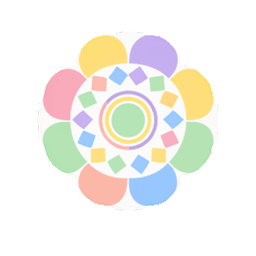
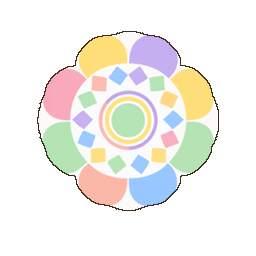
feat(beads): 走马灯 boss 烘焙图补 1px 剪影描边 (WXG-T-954)
- 两张 ui_arc_* 烘焙图沿 alpha 最外圈补 shadowInk，P 模式与 alpha 包围盒不变
- Cocos trim 37/31/182/180 继续有效；design + cocos 两副本同 md5；文件反降
- 关闭 T-926 的「待 art 重出」登记；verify 23/23

diff --git a/games/beads/cocos/assets/scripts/game/view/bead-outline.ts b/games/beads/cocos/assets/scripts/game/view/bead-outline.ts
@@ -17,7 +17,8 @@
  *    ⛔ 不再用「整颗边界珠外扩 W 的实心圆角方块」——填色盖在珠面上会把一圈珠子涂黑；
  *  - 同色一次性并集填充（不透明重叠，不叠 α）；
  *  - 适用范围：详情橱窗 / 选关缩略 / **对局盘面**（T-927 新增；盘面与缩略同一套形状，
- *    只把占用判定从 `pattern` 换成快照格 `void`）；首页走马灯例外（烘焙作品图，待 art 重出）；
+ *    只把占用判定从 `pattern` 换成快照格 `void`）；首页走马灯 = 烘焙作品图，描边随图烘
+ *    （`[WXG-T-954]` 已补 1px `shadowInk` 剪影，见 `menu-showcase-mount-spec.md §10`）；
  *  - 形状按几何缓存 ⇒ 逐帧零重建；盘面缓存用数值键（不做字符串拼接 ⇒ 热路径零分配）。
  */
 

diff --git a/games/beads/src/view/bead-outline.ts b/games/beads/src/view/bead-outline.ts
@@ -17,7 +17,8 @@
  *    ⛔ 不再用「整颗边界珠外扩 W 的实心圆角方块」——填色盖在珠面上会把一圈珠子涂黑；
  *  - 同色一次性并集填充（不透明重叠，不叠 α）；
  *  - 适用范围：详情橱窗 / 选关缩略 / **对局盘面**（T-927 新增；盘面与缩略同一套形状，
- *    只把占用判定从 `pattern` 换成快照格 `void`）；首页走马灯例外（烘焙作品图，待 art 重出）；
+ *    只把占用判定从 `pattern` 换成快照格 `void`）；首页走马灯 = 烘焙作品图，描边随图烘
+ *    （`[WXG-T-954]` 已补 1px `shadowInk` 剪影，见 `menu-showcase-mount-spec.md §10`）；
  *  - 形状按几何缓存 ⇒ 逐帧零重建；盘面缓存用数值键（不做字符串拼接 ⇒ 热路径零分配）。
  */
 

diff --git a/production/TASKS.md b/production/TASKS.md
@@ -2,12 +2,13 @@
 
 > **格式（WXG-T-064 起）：标题制 + 详情分片。** 本表**只留标题**（名称列 ≤ 60 字符，由 `pnpm run check:tasks` 机械强制）；任务正文在 `production/TASKS-DETAIL.md` 的 `## WXG-T-0NN` 小节。**读取协议**：领号/看状态只读本表（≈ 2.2k tok）；要某任务详情时，从 `ctx/index.json` 取该小节的 `startLine`/`endLine`，`read_file(path, offset, limit)` **只读那一节**（中位 ≈ 290 tok），**不要整读详情文件**。归档时**行与小节成对搬走**。
 > 单号递增不回收。任何会话（WorkBuddy/Cursor/Qoder/CodeBuddy）开工前**先读本文件领号**，完成后回填状态——根治跨 IDE 撞号（教训：2026-09-12 CodeBuddy 独立会话撞用 T-013/T-014）。
-> **领号（机械校准锚，供 `pnpm run tasks:archive` 校准用）**：当前已分配至 **WXG-T-953**，下一可用号 **WXG-T-954**（953 = 本会话（Trae CN）主菜单橱窗装裱层视觉规格 M1–M4（豆面本体 + 陈列装饰；独立规格卡 `menu-showcase-mount-spec.md`）；📝 提案）（952 = 本会话（Trae CN）选关缩略改走 flat 纯色腿（彻底去掉豆面/tint，色板基础色方块；更替 T-951/T-950/T-621 缩略腿）；✅ 完成）（951 = 本会话（Trae CN）缩略珠面恢复色板基础颜色并关闭 tint 叠加（更替 T-950 / T-910 缩略腿；已被 952 更替）；✅ 完成）（950 = 本会话（Trae CN）修复选关缩略超大盘回退方块珠面颜色与详情页不一致（`THUMB_FLAT_FACE_MIX 0.15`，方案 1；已被 951 更替）；✅ 完成）（949 = 本会话（Trae CN）过关结算面板按 Figma `过关结算 269:44` 重排：整张木牌 545×585 + 金星 96×99 + 双钮 279×106/192×101，4 枚资产入库并接 harness；✅ 完成）（948 = 本会话（Trae CN）从 Figma 重新下载设置面板 cell 背景（节点 256:61，1038×294 RGBA，入 final 未接线）；✅ 完成）（947 = 本会话（Trae CN）过关面板收口：静态卡定稿 + 死快照字段/旧注释清理 + sprint 死分支 + 星形点列预分配；✅ 完成）（946 = 本会话（Trae CN）结算过关面板：彩带禁飞带按现役 520×470 面板修正（护住标题木牌与星级）+ 说明行接 E2 大字号；✅ 完成）（945 = 本会话（Trae CN）结算·过关面板用时按本局实际时钟计算：修 2★/3★ 档与续时局「用时 / 再快N秒」虚高；✅ 完成）（944 = 本会话（Trae CN）容器内逐容器裁切：设置页半行 cell 可见，ADR-0037；✅ 完成）（943 = 本会话（Trae CN）设置页去皮肤行 + 提示文案收敛 + 开关/提示让位 + 投影加深 + 开关行整行不可点；✅ 完成）（942 = 本会话（Trae CN）设置页滚动空块 / 提示行位置 / 图标投影修复：半露行不画 + 松手吸附 150、提示行 115→102、图标补烘投影；✅ 完成）（938 = 本会话（Trae CN）设置弹窗按钮改选关「关闭」烘图派生的无字厚木 9-slice（`ui_btn_settings_9s@2x`，capX 70），按下叠深棕压暗；✅ 完成）（937 = 本会话（Trae CN）设置弹窗按钮改选关「关闭」同族木纹 9-slice、位图注入点下沉 `bitmap-ready` 解环；✅ 完成）（936 = 本会话（Trae CN）设置弹窗所有钮 normal 态改选关「关闭」木钮 + 右上 ✕ + 点木牌外关闭；✅ 完成）（935 = 本会话（Trae CN）设置弹窗复用关卡详情木牌 581×1044 + 11 钮两列、中间可视窗超窗可滚，删 600×820 专用底板；✅ 完成）（934 = 本会话（Trae CN）暂停面板收敛为三钮：继续 / 重玩本关 / 回主菜单，10 项全局设置退出暂停面板归菜单设置弹窗，幽灵符号补入菜单 11 钮；✅ 完成）（933 = 本会话（Trae CN）珠面描边圆角半径 ≡ 线宽：`OUTLINE_BASE_RADIUS = OUTLINE_BASE_WIDTH` 构造恒等，1:1 = W4/R4）（932 = 本会话（Trae CN）珠面描边加粗：1:1 基准 W 3→4、R 9→12，防珠体边角从描边下漏出）（931 = 本会话（Trae CN）盘面线宽去 `Math.max` 下限：`boardOutlineWidth` 别名 `thumbOutlineWidth`，与缩略同一等比通道）（930 = 本会话（Trae CN）珠面描边改纯比例缩放：1:1（`BEAD_PITCH=32`）锚定 W=3 / R=9，其余尺寸 × `pitch/32` 等比、去钳位去取整，盘面捏合时同步缩放）（929 = 本会话（Trae CN）珠面描边改「骑线带」：修 T-928 实心并集把一圈边界珠涂黑，改逐边界珠只画露空边 + 凸角 1/4 环带，珠面零覆盖、带连续）（928 = 本会话（Trae CN）珠面描边改**盖在珠面上面**：缩略 `drawBeadFace` 移末笔、盘面 `drawBoardOutline` 移到格循环后，条数零变仅 sha 变）（927 = 本会话（Trae CN）描边收窄 + 圆角放大 + 对局盘面启用：`W` 0.18→0.10（钳 1–4）、`R` 0.22→0.30（钳 2–9），盘面与缩略同形状「快照 `void` 占位」、`drawGrid` 前绘制、数值键缓存；封箱两帧与五态金样本各 +46 polygon）（926 = 本会话（Trae CN）珠面描边改判：shadowInk 黑贴边圆角、全展示启用，走马灯待 art 出图）（925 = 本会话（Trae CN）详情橱窗珠面贴纸轮廓：panel 白描边 + 凹角折角 R 圆角，仅详情启用）（924 = 本会话（Trae CN）详情橱窗珠面占比放大：占位 240→360×340，底锚与橱窗轴不变）（923 = 本会话（Trae CN）通关画面范围分档：本章 / 全部通关标题与行范围，行标签全局关号）（922 = 本会话（Trae CN）门票→章 2 串联验收：14 断言全过，纯验证零代码）（921 = 本会话（Trae CN）视图删章首门票豁免腿：锁判据单源 `maxUnlockedLevel`，`arcTicketOpen` 不再被视图消费）（920 = 本会话（Trae CN）「解锁」判据收拢 `_unlockedFrontier`：门票成立 ⇒ 章首必解锁，三态/高亮/闸门同源）（919 = 本会话（Trae CN）首页锁态章不可点进选关页：入口闸门 `_openLevelsFromMenu` 增 `arcTicketOpen` 拦，R14 改判）（918 = 本会话（Trae CN）关卡详情图案落托盘 + 居中：底锚实际内容行、水平取橱窗轴）（917 = 本会话（Trae CN）未开放大关锁形占位尺寸/锚点 art 定版：scale 0.45、玻璃中心、动效静止）（916 = 本会话（Trae CN）未开放大关橱窗 = 锁图占位：不画 boss 图，磨砂/灰度腿退役）（915 = 本会话（Trae CN）选关页编号牌口径 = 全局关号：`level.id` 替代章内格位，越界空槽不印数字）（914 = 本会话（Trae CN）木牌第二行状态词：无在推的关时「已通关 / 未开启」）（913 = 本会话（Trae CN）主界面走马灯陈列关 = 推到的 0 星关，章名不丢）（912 = 本会话（Trae CN）选关高亮改口径：解锁范围内第一个 0 星关，全通回落前沿）（911 = 本会话（Trae CN）选关高亮改指进度前沿：currentLevelIndex = 最高解锁关 − 1）（910 = 本会话（Qoder）缩略珠面与盘面同臂同参：maskGauge/hideHole/底块 tile opts 随豆径档透传，更替 T-620 恒矢量臂接线；领号认工作树全局最大号 K-046）（623 = 本会话（Trae CN）缩略构图补齐：目标色底块 + x 锁格 + 空格口径）（622 = 本会话（Trae CN）缩略大盘回退判据统一：块边→珠体边长）（621 = 本会话（Trae CN）缩略珠面跟随当前应用珠体风格 `beadStyle`）（620 = 本会话（Trae CN）选关/详情珠面接入盘面同款 `drawFilledBead`（facet-4））（619 = 本会话（Trae CN）关卡详情珠面切共享腿 `drawBeadFace`）（618 = 本会话（Qoder）并发遗留清账批 17 件·用户批准代提·逐件归属披露）（617 = 本会话（Qoder）T-614 追闭二轮：Cocos 腿九宫格死分支修复 + 实帧取证 + Figma 回稿单 + F7⑤ 无障碍裁定）（616 = 本会话（Trae CN）选关九宫格图案槽放大 69×76→126×94 + 锁图等比居中）（615 = 本会话（Qoder）T-614 追闭三件：切图进包核验 + 位图腿 headless 实帧取证 + ux-spec 版本链/变更记录外移文档批）（614 = 本会话（Qoder）倒计时结束弹窗按 Figma 木牌稿重排 + View/ViewModel 三契约落码）（613 = 本会话（CodeBuddy）选关页缩略新增完整豆面档（盘面真实行列逐珠等比），旧固定珠数聚合档保留）（612 = 本会话（CodeBuddy）选关页外框处理 + 右上 ✕ + 两弹框背景框/✕ 绘制共用）（611 = 本会话（CodeBuddy）选关页六项修正：名字居中 / 高亮无框 / grid-brand 资源 / 锁格 grid-image / 解锁程序化图案 / 去锁徽章）（610 = 本会话（CodeBuddy）选关弹窗九宫格/关闭按钮/关卡名字控件按稿补齐批）（609 = 本会话（CodeBuddy）关卡详情橱窗面板资源从 Figma 获取并接入批）（608 = 本会话（CodeBuddy）关卡详情对话框背景重新下载导入批）（607 = 本会话（CodeBuddy）选关对话框 Figma grid-1 切图 + View/ViewModel 落码批）（606 = 选关页沿用关卡详情木牌 + 九宫格木托盘）（605 = MiniMax-H3 文生视频工作流（内网 ComfyUI））（604 = 关卡详情弹窗按 Figma 92:36 重排 + 单源规格）（603 = 关卡详情道具图标批次：熨贴片 / 抖豆筛 / 扫豆刷 + 数量标记）（602 = 本会话（CodeBuddy）走马灯翻页动画顿挫修复批）（601 = 本会话（CodeBuddy）橱窗展品底缘对齐圆台台面修复批）（**沿革已外移**：每个已分配号的批次摘要、冲突披露与 ADR 编号表 → `production/archive/TASKS-ledger-notes.md`，2026-10-28 由 WXG-T-482 原文照搬迁出；动机 = 该段占台账 39,909 tok 而 `tasks:archive` 只搬表行、对它零效力 ⇒ 台账撞 80k 门。⛔ 日常领号只认本行数值，**不要**去读那份沿革）。
+> **领号（机械校准锚，供 `pnpm run tasks:archive` 校准用）**：当前已分配至 **WXG-T-954**，下一可用号 **WXG-T-955**（954 = 本会话（Trae CN）走马灯两张 boss 烘焙图补珠面描边（1px `shadowInk` 剪影，P 模式 alpha 包围盒不变；✅ 完成））（953 = 本会话（Trae CN）主菜单橱窗装裱层视觉规格 M1–M4（豆面本体 + 陈列装饰；独立规格卡 `menu-showcase-mount-spec.md`）；✅ 完成）（952 = 本会话（Trae CN）选关缩略改走 flat 纯色腿（彻底去掉豆面/tint，色板基础色方块；更替 T-951/T-950/T-621 缩略腿）；✅ 完成）（951 = 本会话（Trae CN）缩略珠面恢复色板基础颜色并关闭 tint 叠加（更替 T-950 / T-910 缩略腿；已被 952 更替）；✅ 完成）（950 = 本会话（Trae CN）修复选关缩略超大盘回退方块珠面颜色与详情页不一致（`THUMB_FLAT_FACE_MIX 0.15`，方案 1；已被 951 更替）；✅ 完成）（949 = 本会话（Trae CN）过关结算面板按 Figma `过关结算 269:44` 重排：整张木牌 545×585 + 金星 96×99 + 双钮 279×106/192×101，4 枚资产入库并接 harness；✅ 完成）（948 = 本会话（Trae CN）从 Figma 重新下载设置面板 cell 背景（节点 256:61，1038×294 RGBA，入 final 未接线）；✅ 完成）（947 = 本会话（Trae CN）过关面板收口：静态卡定稿 + 死快照字段/旧注释清理 + sprint 死分支 + 星形点列预分配；✅ 完成）（946 = 本会话（Trae CN）结算过关面板：彩带禁飞带按现役 520×470 面板修正（护住标题木牌与星级）+ 说明行接 E2 大字号；✅ 完成）（945 = 本会话（Trae CN）结算·过关面板用时按本局实际时钟计算：修 2★/3★ 档与续时局「用时 / 再快N秒」虚高；✅ 完成）（944 = 本会话（Trae CN）容器内逐容器裁切：设置页半行 cell 可见，ADR-0037；✅ 完成）（943 = 本会话（Trae CN）设置页去皮肤行 + 提示文案收敛 + 开关/提示让位 + 投影加深 + 开关行整行不可点；✅ 完成）（942 = 本会话（Trae CN）设置页滚动空块 / 提示行位置 / 图标投影修复：半露行不画 + 松手吸附 150、提示行 115→102、图标补烘投影；✅ 完成）（938 = 本会话（Trae CN）设置弹窗按钮改选关「关闭」烘图派生的无字厚木 9-slice（`ui_btn_settings_9s@2x`，capX 70），按下叠深棕压暗；✅ 完成）（937 = 本会话（Trae CN）设置弹窗按钮改选关「关闭」同族木纹 9-slice、位图注入点下沉 `bitmap-ready` 解环；✅ 完成）（936 = 本会话（Trae CN）设置弹窗所有钮 normal 态改选关「关闭」木钮 + 右上 ✕ + 点木牌外关闭；✅ 完成）（935 = 本会话（Trae CN）设置弹窗复用关卡详情木牌 581×1044 + 11 钮两列、中间可视窗超窗可滚，删 600×820 专用底板；✅ 完成）（934 = 本会话（Trae CN）暂停面板收敛为三钮：继续 / 重玩本关 / 回主菜单，10 项全局设置退出暂停面板归菜单设置弹窗，幽灵符号补入菜单 11 钮；✅ 完成）（933 = 本会话（Trae CN）珠面描边圆角半径 ≡ 线宽：`OUTLINE_BASE_RADIUS = OUTLINE_BASE_WIDTH` 构造恒等，1:1 = W4/R4）（932 = 本会话（Trae CN）珠面描边加粗：1:1 基准 W 3→4、R 9→12，防珠体边角从描边下漏出）（931 = 本会话（Trae CN）盘面线宽去 `Math.max` 下限：`boardOutlineWidth` 别名 `thumbOutlineWidth`，与缩略同一等比通道）（930 = 本会话（Trae CN）珠面描边改纯比例缩放：1:1（`BEAD_PITCH=32`）锚定 W=3 / R=9，其余尺寸 × `pitch/32` 等比、去钳位去取整，盘面捏合时同步缩放）（929 = 本会话（Trae CN）珠面描边改「骑线带」：修 T-928 实心并集把一圈边界珠涂黑，改逐边界珠只画露空边 + 凸角 1/4 环带，珠面零覆盖、带连续）（928 = 本会话（Trae CN）珠面描边改**盖在珠面上面**：缩略 `drawBeadFace` 移末笔、盘面 `drawBoardOutline` 移到格循环后，条数零变仅 sha 变）（927 = 本会话（Trae CN）描边收窄 + 圆角放大 + 对局盘面启用：`W` 0.18→0.10（钳 1–4）、`R` 0.22→0.30（钳 2–9），盘面与缩略同形状「快照 `void` 占位」、`drawGrid` 前绘制、数值键缓存；封箱两帧与五态金样本各 +46 polygon）（926 = 本会话（Trae CN）珠面描边改判：shadowInk 黑贴边圆角、全展示启用，走马灯待 art 出图）（925 = 本会话（Trae CN）详情橱窗珠面贴纸轮廓：panel 白描边 + 凹角折角 R 圆角，仅详情启用）（924 = 本会话（Trae CN）详情橱窗珠面占比放大：占位 240→360×340，底锚与橱窗轴不变）（923 = 本会话（Trae CN）通关画面范围分档：本章 / 全部通关标题与行范围，行标签全局关号）（922 = 本会话（Trae CN）门票→章 2 串联验收：14 断言全过，纯验证零代码）（921 = 本会话（Trae CN）视图删章首门票豁免腿：锁判据单源 `maxUnlockedLevel`，`arcTicketOpen` 不再被视图消费）（920 = 本会话（Trae CN）「解锁」判据收拢 `_unlockedFrontier`：门票成立 ⇒ 章首必解锁，三态/高亮/闸门同源）（919 = 本会话（Trae CN）首页锁态章不可点进选关页：入口闸门 `_openLevelsFromMenu` 增 `arcTicketOpen` 拦，R14 改判）（918 = 本会话（Trae CN）关卡详情图案落托盘 + 居中：底锚实际内容行、水平取橱窗轴）（917 = 本会话（Trae CN）未开放大关锁形占位尺寸/锚点 art 定版：scale 0.45、玻璃中心、动效静止）（916 = 本会话（Trae CN）未开放大关橱窗 = 锁图占位：不画 boss 图，磨砂/灰度腿退役）（915 = 本会话（Trae CN）选关页编号牌口径 = 全局关号：`level.id` 替代章内格位，越界空槽不印数字）（914 = 本会话（Trae CN）木牌第二行状态词：无在推的关时「已通关 / 未开启」）（913 = 本会话（Trae CN）主界面走马灯陈列关 = 推到的 0 星关，章名不丢）（912 = 本会话（Trae CN）选关高亮改口径：解锁范围内第一个 0 星关，全通回落前沿）（911 = 本会话（Trae CN）选关高亮改指进度前沿：currentLevelIndex = 最高解锁关 − 1）（910 = 本会话（Qoder）缩略珠面与盘面同臂同参：maskGauge/hideHole/底块 tile opts 随豆径档透传，更替 T-620 恒矢量臂接线；领号认工作树全局最大号 K-046）（623 = 本会话（Trae CN）缩略构图补齐：目标色底块 + x 锁格 + 空格口径）（622 = 本会话（Trae CN）缩略大盘回退判据统一：块边→珠体边长）（621 = 本会话（Trae CN）缩略珠面跟随当前应用珠体风格 `beadStyle`）（620 = 本会话（Trae CN）选关/详情珠面接入盘面同款 `drawFilledBead`（facet-4））（619 = 本会话（Trae CN）关卡详情珠面切共享腿 `drawBeadFace`）（618 = 本会话（Qoder）并发遗留清账批 17 件·用户批准代提·逐件归属披露）（617 = 本会话（Qoder）T-614 追闭二轮：Cocos 腿九宫格死分支修复 + 实帧取证 + Figma 回稿单 + F7⑤ 无障碍裁定）（616 = 本会话（Trae CN）选关九宫格图案槽放大 69×76→126×94 + 锁图等比居中）（615 = 本会话（Qoder）T-614 追闭三件：切图进包核验 + 位图腿 headless 实帧取证 + ux-spec 版本链/变更记录外移文档批）（614 = 本会话（Qoder）倒计时结束弹窗按 Figma 木牌稿重排 + View/ViewModel 三契约落码）（613 = 本会话（CodeBuddy）选关页缩略新增完整豆面档（盘面真实行列逐珠等比），旧固定珠数聚合档保留）（612 = 本会话（CodeBuddy）选关页外框处理 + 右上 ✕ + 两弹框背景框/✕ 绘制共用）（611 = 本会话（CodeBuddy）选关页六项修正：名字居中 / 高亮无框 / grid-brand 资源 / 锁格 grid-image / 解锁程序化图案 / 去锁徽章）（610 = 本会话（CodeBuddy）选关弹窗九宫格/关闭按钮/关卡名字控件按稿补齐批）（609 = 本会话（CodeBuddy）关卡详情橱窗面板资源从 Figma 获取并接入批）（608 = 本会话（CodeBuddy）关卡详情对话框背景重新下载导入批）（607 = 本会话（CodeBuddy）选关对话框 Figma grid-1 切图 + View/ViewModel 落码批）（606 = 选关页沿用关卡详情木牌 + 九宫格木托盘）（605 = MiniMax-H3 文生视频工作流（内网 ComfyUI））（604 = 关卡详情弹窗按 Figma 92:36 重排 + 单源规格）（603 = 关卡详情道具图标批次：熨贴片 / 抖豆筛 / 扫豆刷 + 数量标记）（602 = 本会话（CodeBuddy）走马灯翻页动画顿挫修复批）（601 = 本会话（CodeBuddy）橱窗展品底缘对齐圆台台面修复批）（**沿革已外移**：每个已分配号的批次摘要、冲突披露与 ADR 编号表 → `production/archive/TASKS-ledger-notes.md`，2026-10-28 由 WXG-T-482 原文照搬迁出；动机 = 该段占台账 39,909 tok 而 `tasks:archive` 只搬表行、对它零效力 ⇒ 台账撞 80k 门。⛔ 日常领号只认本行数值，**不要**去读那份沿革）。
 > 勘误（2026-09-13）：本注此前长期停在「已分配至 T-032」而表内已排到 T-035，曾致撞号（教训见 memory 记录）；WXG-T-040 归档落地后改为——**领号认本注（下一可用号），本注由 `tasks:archive` 校准**为「主表 ∪ 归档全局最大号 + 1」（归档会把老行移出主表，只看主表最大号必重号）；手工领号后请顺手核对本注（可运行 `pnpm run tasks:archive` 校准，0 行时不落盘）。
 > **用过号未自登主表清单**（K-137 只披露不代填）：222 / 257 / 280·281 / 282 / 283 / 285 / 286·287 / 289 （291 已由 WXG-T-292 代收口自登；203–207 属区间披露）——逐条正文与补账口径见 `production/archive/TASKS-ledger-notes.md` §A 末段。⛔ 仍不代填，待各会话自登。
 
 | Task ID | 名称 | 负责 | 状态 | 产出 |
 |---|---|---|---|---|
+| WXG-T-954 | 美术·走马灯两张 boss 烘焙图补珠面描边 | 主理人(Trae CN)·beads 美术轨 | ✅ **完成（2026-11-16）**（用户选「2 = 给走马灯两张 boss 烘焙图补珠面描边」）。`l9-boss-mandala-256` / `photo32-smoke-boss-256` 沿 alpha 剪影最外圈补 **1px `shadowInk` `#3D2E1E`** 实线；P 模式保留、透明度索引 96 不变、**alpha 包围盒逐像素不变**（Cocos trim 37/31/182/180 仍有效）；design + cocos 两副本同 md5；文件 −256 B / −280 B（零包体增量）。关闭 T-926 登记的「走马灯烘焙图待 art 重出」 | 见详情 · 资产 4 件（2 原图 + 2 副本）；harness 实帧两态；零金样本重抓（Node 金样本走程序化兜底腿，命令流未变） |
 | WXG-T-953 | 设计·主菜单橱窗装裱层视觉规格（M1–M4）+ 落码 | 主理人(Trae CN)·beads 美术轨 | ✅ **完成（2026-11-15）**（用户令「按这个方案生成装裱层的视觉规格」并选「1 = 落码」）。规格卡 `menu-showcase-mount-spec.md` + 实装 M1 背衬暗角 / M2 底缘接触影 / M3 压边内框 / M4 上缘受光线（M5 默认关）。几何口径订正 = 名义 `MENU_V2.art` 325×314 不是可见范围（两腿实际绘制 ≈ `avail` 374 见方）⇒ M1/M2/M3 按实际包围盒；M3 上缘夹到玻璃顶。零新 hex / 0 KB / 菜单帧 +18 rect（实测） | 见详情 · 代码 `tuning/menu.ts` + `view/meta-menu.ts`；规格 1 件；金样本五态 +18 rect 重抓；harness 四态取证 · kb:sync 沉淀统计 新增0/修改0/激活0/归档0 |
 | WXG-T-952 | 修复·选关缩略改走 flat 纯色腿（彻底去掉豆面 / tint） | 主理人(Trae CN)·beads 视图轨 | ✅ **完成（2026-11-15）**（用户令「现在缩略图的还是有豆面 tint 效果」）。`drawBeadFace` 新增 `flat` 形参（缺省 false）；选关格解锁/锁定两处传 `flat=true` ⇒ 不调 `drawFilledBead`，逐格只画 B0 目标色底 + 色板基础色方块，零珠面/零 tint/零孔；详情橱窗与走马灯保持珠面。T-621 改为「缩略与 beadStyle 解耦」，墙 oracle 改按方块边 | 见详情 · kb:sync 沉淀统计 新增0/修改0/激活0/归档0 |
 | WXG-T-951 | 修复·缩略珠面恢复基础色并关闭 tint 叠加 | 主理人(Trae CN)·beads 视图轨 | ✅ **完成（2026-11-15）**，**已被 WXG-T-952 更替**（缩略彻底改 flat 纯色腿）。原修复 = 回退 T-950 派生色、`drawBeadFace` 不写 `maskGauge` ⇒ 缩略走矢量臂 | 见详情 · kb:sync 沉淀统计 新增0/修改0/激活0/归档0 |
@@ -61,7 +62,7 @@
 | WXG-T-929 | UX·珠面描边改「骑线带」形状（修涂黑） | 主理人(Trae CN)·beads 工程轨 | ✅ **完成（2026-11-12 · 用户反馈「我只是让珠面描边，怎么把珠面一圈的珠子给描黑了」）**（实心并集 → 骑线带：逐边界珠只画露空边 + 凸角 1/4 环带，半宽 `W/2` 内外各半，珠面零覆盖；盘面 13×12 由 46 实心块改为 54 枚带/角，判据「单格 8 / 2×2 12 / L 形 13」，封箱 +8 与金样本重抓） | 见详情 |
 | WXG-T-928 | UX·珠面描边改盖在珠面之上 | 主理人(Trae CN)·beads 工程轨 | ✅ **完成（2026-11-12 · 用户令「珠面描边要盖在珠面上面」）**（只改帖序：`drawBeadFace` 轮廓移到 pass 2 之后、`drawGrid` 轮廓移到格循环之后 ⇒ 线条压住边界珠外缘 W；形状 / 条数零变，封箱第二十三次复评 0/0 + 金样本 sha 重抓） | 见详情 |
 | WXG-T-927 | UX·珠面描边收窄 + 圆角放大 + 对局盘面启用 | 主理人(Trae CN)·beads 工程轨 | ✅ **完成（2026-11-12 · 用户令「珠面的描边窄一点，圆角半径再大一点；游戏中也需要这个描边」）**（线宽 `W=clamp(round(pitch×0.10),1,4)`、折角 `R=clamp(round(pitch×0.30),2,9)`；新增 `drawBoardOutline` ⇒ 盘面与缩略 / 详情同形状，占位取快照 `cell.void`、锁定格取 `cell.state`，在 `drawGrid` 格循环前绘制；缓存数值键比较、逐帧零分配；判据 `thumb-outline` 7 例，封箱两帧与五态金样本重抓） | 见详情 |
-| WXG-T-926 | UX·珠面描边改判（黑贴边·全展示·等比） | 主理人(Trae CN)·beads 工程轨 + art | ✅ **完成（2026-11-12 · 用户反馈「白色不协调，黑/金、线条连续紧贴珠面、各种展示都加、等比缩放」）**（art 二裁 `palette.shadowInk` 暖可可黑单层实线；实现改「每颗边界珠外扩 W 圆角方块」并集 ⇒ 紧贴无缝；`drawBeadFace` 内建描边 ⇒ 详情 + 选关生效；**首页走马灯 = 烘焙作品图，需 art 重出图（已登记）**；判据 6 例，实帧已核） | 见详情 |
+| WXG-T-926 | UX·珠面描边改判（黑贴边·全展示·等比） | 主理人(Trae CN)·beads 工程轨 + art | ✅ **完成（2026-11-12 · 用户反馈「白色不协调，黑/金、线条连续紧贴珠面、各种展示都加、等比缩放」）**（art 二裁 `palette.shadowInk` 暖可可黑单层实线；实现改「每颗边界珠外扩 W 圆角方块」并集 ⇒ 紧贴无缝；`drawBeadFace` 内建描边 ⇒ 详情 + 选关生效；**首页走马灯 = 烘焙作品图，需 art 重出图（已登记）**；判据 6 例，实帧已核；**走马灯烘焙图已由 WXG-T-954 补 1px 剪影描边（2026-11-16）**） | 见详情 |
 | WXG-T-925 | UX·详情橱窗珠面贴纸轮廓（白描边+折角圆角） | 主理人(Trae CN)·beads 工程轨 | ✅ **完成（2026-11-12 · 用户令「珠面需要增加一圈轮廓，轮廓折叠处需要有圆角，颜色和效果请 art 裁定」，白描边已被 T-926 改判）**（新增 `bead-outline.ts`：剪影边界环 → 凸角 W 圆盘 / 凹角 R+W↔R 圆环 / 直边矩形条，画在珠面前；art 裁 `palette.panel` 单层实线、W/R 随 pitch 钳 2–6；判据 5 例） | 见详情 |
 | WXG-T-924 | UX·详情橱窗珠面占比放大（240→360×340） | 主理人(Trae CN)·beads 工程轨 | ✅ **完成（2026-11-12 · 用户令「图案占橱窗比例太小，按照视觉合适比例调整」）**（占位从稿面猫图框 295×285/240 改取 `LEVEL_DETAIL_GEO.thumbFit` 360×340；底锚台面 805、水平橱窗轴不变；判据 4 例全绿，实帧 L4 12×12 / L7 宽盘 / L9 boss 三档已核） | 见详情 |
 | WXG-T-923 | UX·通关画面范围分档（本章 / 全部通关） | 主理人(Trae CN)·beads 工程轨 | ✅ **完成（2026-11-12 · 用户裁「按范围分档」）**（L9 ⇒「🎊 本章通关」+ 9 行；L10 ⇒「🎊 全部通关」+ 10 行；行标签用全局关号；三钮固定几何，hitTest 脱布局缓存；判据 +4，实帧 9 行 27/27★ 与 10 行 30/30★） | 见详情 |

diff --git a/memory/INDEX.md b/memory/INDEX.md
@@ -70,12 +70,12 @@
 > 摘要层覆盖 **24 篇日记 / 合计 115,979 tok**（整读本块 ≈ 数十行；整读日记 = 万级 tok ⇒ 别整读）。
 > 另有 **49 个二级详情文件 / 合计 94,498 tok**（`memory/details/`，下表「详情」列给出指针；单文件仍需按行区间读，勿整读）。
 
-### `memory/2026-10-22.md` — 398 tok｜0 节｜**蒸馏到期 2026-11-21**（剩 6 天）
+### `memory/2026-10-22.md` — 398 tok｜0 节｜**蒸馏到期 2026-11-21**（剩 5 天）
 
 | 节 | 行（含首尾） | tok | 详情 | 摘要（节首句摘取，**非**人工撰写） |
 |---|---|---|---|---|
 
-### `memory/2026-10-21.md` — 5,478 tok｜10 节｜**蒸馏到期 2026-11-20**（剩 5 天）
+### `memory/2026-10-21.md` — 5,478 tok｜10 节｜**蒸馏到期 2026-11-20**（剩 4 天）
 
 | 节 | 行（含首尾） | tok | 详情 | 摘要（节首句摘取，**非**人工撰写） |
 |---|---|---|---|---|
@@ -90,7 +90,7 @@
 | §WXG-T-333 开工：headroom 安装押后 + 走查前置侦察（Qoder） | 72–79 | 508 | — | 用户裁定：「暂时先不装 headroom，继续走查任务」⇒ uv tool install 命令已取消（零落盘，用户机器 |
 | §WXG-T-332 开工：headroom 可用形态口径订正（Qoder） | 80–88 | 525 | — | 用户纠错成立：用户指出「headroom 好像只能 MCP 用法，直接代理在 Qoder 里好像不能用」。判 对 —— |
 
-### `memory/2026-10-20.md` — 1,785 tok｜4 节｜**蒸馏到期 2026-11-19**（剩 4 天）
+### `memory/2026-10-20.md` — 1,785 tok｜4 节｜**蒸馏到期 2026-11-19**（剩 3 天）
 
 | 节 | 行（含首尾） | tok | 详情 | 摘要（节首句摘取，**非**人工撰写） |
 |---|---|---|---|---|
@@ -99,14 +99,14 @@
 | §WXG-T-330 开工：MCP 接入 headroom（本地上下文压缩）（Qoder） | 16–21 | 388 | — | 背景：用户给 https://github.com/headroomlabs-ai/headroom 问「如何用到本工程 |
 | §WXG-T-331 开工：外部技能/工具沉淀为可刷新知识库（Qoder） | 22–29 | 538 | — | 问题：用户问 headroom / ponytail 能否沉为个人知识库、以后项目直接用，哪种方式方便查与接（并提「gi |
 
-### `memory/2026-10-14.md` — 142 tok｜2 节｜2 节已外移｜**蒸馏已到期（2026-11-13，已过期 2 天）**
+### `memory/2026-10-14.md` — 142 tok｜2 节｜2 节已外移｜**蒸馏已到期（2026-11-13，已过期 3 天）**
 
 | 节 | 行（含首尾） | tok | 详情 | 摘要（节首句摘取，**非**人工撰写） |
 |---|---|---|---|---|
 | §续：定稿底图换代（第十二批 · 走③把橱窗画矮 47 px） | 3–5 | 42 | → `memory/details/2026-10-14-s01.md`（1,382）｜行 1–14 | 71. 裁定落地：用户「① 底部走③出图」⇒ 执行第十一批待办 ①（CTA 底缘入底部安全带 43 px 的违例）。路线 |
 | §续：柜内木牌定稿（**第十四批** · B25 影层三段式随牌宽 + 回管线） | 6–8 | 42 | → `memory/details/2026-10-14-s02.md`（7,795）｜行 1–56 | 77. 裁定落地：用户单字「A」= 选 B24 交付的 A 方案（先解决 ⚠3「影层随 9-slice 拉伸」，量完接缝 |
 
-### `memory/2026-10-13.md` — 4,542 tok｜8 节｜5 节已外移｜**蒸馏已到期（2026-11-12，已过期 3 天）**
+### `memory/2026-10-13.md` — 4,542 tok｜8 节｜5 节已外移｜**蒸馏已到期（2026-11-12，已过期 4 天）**
 
 | 节 | 行（含首尾） | tok | 详情 | 摘要（节首句摘取，**非**人工撰写） |
 |---|---|---|---|---|
@@ -119,7 +119,7 @@
 | §续：原型 v2 第十批（@2x 基准图 · 三颗分列招牌两侧 + 橱窗顶 L4 + 上下安全区） | 56–58 | 42 | → `memory/details/2026-10-13-s07.md`（988）｜行 1–13 | 63. 出图规格口径由用户明令：UI 原型一律 750×1334 @2x = 1500×2668。⇒ 基准图从 v1-m |
 | §续：L4 第十一批落码（`drawResourceBar` = 门楣价目牌 · 三条裁定 ①②③） | 59–61 | 43 | → `memory/details/2026-10-13-s08.md`（1,358）｜行 1–13 | 67. 第九批坐标对现役版面复核即破（本批最大发现）：牌位 y-up [1041,1079]（对定稿图门楣量的）与现役招 |
 
-### `memory/2026-10-12.md` — 6,315 tok｜7 节｜**蒸馏已到期（2026-11-11，已过期 4 天）**
+### `memory/2026-10-12.md` — 6,315 tok｜7 节｜**蒸馏已到期（2026-11-11，已过期 5 天）**
 
 | 节 | 行（含首尾） | tok | 详情 | 摘要（节首句摘取，**非**人工撰写） |
 |---|---|---|---|---|
@@ -131,19 +131,19 @@
 | §WXG-T-271 投放取证：装载腿全绿、但位图被 Graphics 盖住（同日第 8 批） | 78–87 | 645 | — | 用户裁「投放 + 同时起草变更单」→ 编辑器（Creator 3.8.8，工程 games/beads/cocos）起来 |
 | §层序修复：位图腿真上屏（同日第 9 批） | 88–97 | 558 | — | 用户从三选项里点「修层序」→ 最小改：框架新增 BlitLayerUI 节点（插在 Graphics 后、Labels |
 
-### `memory/2026-10-10.md` — 2,825 tok｜2 节｜**蒸馏已到期（2026-11-09，已过期 6 天）**
+### `memory/2026-10-10.md` — 2,825 tok｜2 节｜**蒸馏已到期（2026-11-09，已过期 7 天）**
 
 | 节 | 行（含首尾） | tok | 详情 | 摘要（节首句摘取，**非**人工撰写） |
 |---|---|---|---|---|
 | §关卡生成期难度门禁⑦（工作量闸）落地 | 24–32 | 475 | — | 触发：用户「关卡生成时算难度需门禁——普通关落区间、boss 高于阈值」；经确认量纲=实测 steps（非 DI，遵 § |
 | §#2 墙序全量反转：退役 EP12-S6 DI 升序陈列 → 配置文件恒等序（含 #3 注释修复） | 33–42 | 658 | — | 触发：用户裁 #2=「本轮全量反转」（墙槽按配置文件顺序 + kind 标 boss）、#3=参考建议（改注释）。 |
 
-### `memory/2026-10-09.md` — 358 tok｜0 节｜**蒸馏已到期（2026-11-08，已过期 7 天）**
+### `memory/2026-10-09.md` — 358 tok｜0 节｜**蒸馏已到期（2026-11-08，已过期 8 天）**
 
 | 节 | 行（含首尾） | tok | 详情 | 摘要（节首句摘取，**非**人工撰写） |
 |---|---|---|---|---|
 
-### `memory/2026-10-07.md` — 5,905 tok｜4 节｜**蒸馏已到期（2026-11-06，已过期 9 天）**
+### `memory/2026-10-07.md` — 5,905 tok｜4 节｜**蒸馏已到期（2026-11-06，已过期 10 天）**
 
 | 节 | 行（含首尾） | tok | 详情 | 摘要（节首句摘取，**非**人工撰写） |
 |---|---|---|---|---|
@@ -152,19 +152,19 @@
 | §WXG-T-268 批 5（EP12-S5 难度真源 difficultyOf 落码 + 守卫 + 门禁⑥） | 31–44 | 928 | — | 1. 范围：EP12-S5 = level-difficulty.md §3 公式落码为单一真源 + §7 守卫 G1– |
 | §WXG-T-269 批 6（EP12-S6 主菜单「拼豆小铺」作品墙落码 · 双轨并行 · QA §M 代落） | 45–78 | 2,596 | — | 1. 范围：EP12-S6 = R-12 闭合案落码（不新增独立 boot 屏，S0 内容就地落已实装 meta-vie |
 
-### `memory/2026-10-06.md` — 2,680 tok｜2 节｜**蒸馏已到期（2026-11-05，已过期 10 天）**
+### `memory/2026-10-06.md` — 2,680 tok｜2 节｜**蒸馏已到期（2026-11-05，已过期 11 天）**
 
 | 节 | 行（含首尾） | tok | 详情 | 摘要（节首句摘取，**非**人工撰写） |
 |---|---|---|---|---|
 | §合成式三端统一 + 旧 effect 死件清（WXG-T-259 · 第廿刀） | 3–26 | 878 | — | 用户裁定（原话）：「旧 assets/scripts/game/view/tint-mask.effect 死文件清除 |
 | §提交被 ctx B 门拦下 → 分片子切 + 四件豁免（WXG-T-260 · 第廿三刀） | 27–75 | 1,749 | — | 现象：git commit -F 被 pre-commit 的 ctx:check B 项拦下 7 件（ADR-0030 |
 
-### `memory/2026-10-05.md` — 4,344 tok｜0 节｜**蒸馏已到期（2026-11-04，已过期 11 天）**
+### `memory/2026-10-05.md` — 4,344 tok｜0 节｜**蒸馏已到期（2026-11-04，已过期 12 天）**
 
 | 节 | 行（含首尾） | tok | 详情 | 摘要（节首句摘取，**非**人工撰写） |
 |---|---|---|---|---|
 
-### `memory/2026-10-04.md` — 28,255 tok｜14 节｜14 节已外移｜**蒸馏已到期（2026-11-03，已过期 12 天）**
+### `memory/2026-10-04.md` — 28,255 tok｜14 节｜14 节已外移｜**蒸馏已到期（2026-11-03，已过期 13 天）**
 
 | 节 | 行（含首尾） | tok | 详情 | 摘要（节首句摘取，**非**人工撰写） |
 |---|---|---|---|---|
@@ -183,18 +183,18 @@
 | §三十五批 · mask 只进 2/4 的确诊 + 档位宏 + 产物门禁（2026-10-05 · WXG-T-255 · ADR-0030 §5.5 第十五刀） | 925–927 | 45 | → `memory/details/2026-10-04-s13-t255.md`（2,294）｜行 1–49 | 四项未闭环收口的第一批（用户令「S5′-3 层序、S3 两端对拍、[R] 低端机、mask 是否进打包产物 收口」）。 |
 | §三十六批 · S5′-3 层序 = **视觉裁剪解**，不是「挪底板」（2026-10-05 · WXG-T-256 · ADR-0030 §5.6 第十六刀） | 928–930 | 45 | → `memory/details/2026-10-04-s14-t256.md`（2,792）｜行 1–34 | 用户原话（裁定与硬约束，三层分开记）：① 提问「S5′-3 层序怎么切 解释下具体效果，我希望的是盘面整体缩放，内容都不 |
 
-### `memory/2026-10-03.md` — 79 tok｜1 节｜1 节已外移｜**蒸馏已到期（2026-11-02，已过期 13 天）**
+### `memory/2026-10-03.md` — 79 tok｜1 节｜1 节已外移｜**蒸馏已到期（2026-11-02，已过期 14 天）**
 
 | 节 | 行（含首尾） | tok | 详情 | 摘要（节首句摘取，**非**人工撰写） |
 |---|---|---|---|---|
 | §WXG-T-226 · B3/B4：tint 消费通道 + LOD 回退阀（CodeBuddy 会话，用户逐轮看图拍板） | 3–5 | 44 | → `memory/details/2026-10-03-s01-t226.md`（17,901）｜行 1–549 | — |
 
-### `memory/2026-09-29.md` — 7,239 tok｜0 节｜**蒸馏已到期（2026-10-29，已过期 17 天）**
+### `memory/2026-09-29.md` — 7,239 tok｜0 节｜**蒸馏已到期（2026-10-29，已过期 18 天）**
 
 | 节 | 行（含首尾） | tok | 详情 | 摘要（节首句摘取，**非**人工撰写） |
 |---|---|---|---|---|
 
-### `memory/2026-09-28.md` — 1,352 tok｜10 节｜9 节已外移｜**蒸馏已到期（2026-10-28，已过期 18 天）**
+### `memory/2026-09-28.md` — 1,352 tok｜10 节｜9 节已外移｜**蒸馏已到期（2026-10-28，已过期 19 天）**
 
 | 节 | 行（含首尾） | tok | 详情 | 摘要（节首句摘取，**非**人工撰写） |
 |---|---|---|---|---|
@@ -209,7 +209,7 @@
 | §WXG-T-223 r2（同日二轮 · 零代码）：用户「槽的内阴影和孔的内阴影都是 tint 烘焙上纹理使用的」 | 27–33 | 535 | — | 槽侧 = 已满足，零改码：内阴影落 drawEmptySocket ⇒ DEC-4 同源（bake-recipes.ts |
 | §WXG-T-223 r4（甲案探针）：孔中心 α=0 真透 + 孔口 d 渐变内阴影 —— 浏览器通道实证 PASS | 34–36 | 44 | → `memory/details/2026-09-28-s10-t223.md`（5,623）｜行 1–101 | 命题：tint（灰度 mask × tint）制下，「孔中心无底色（真透）+ 孔口一圈内阴影」能否成立。 |
 
-### `memory/2026-09-27.md` — 6,212 tok｜3 节｜**蒸馏已到期（2026-10-27，已过期 19 天）**
+### `memory/2026-09-27.md` — 6,212 tok｜3 节｜**蒸馏已到期（2026-10-27，已过期 20 天）**
 
 | 节 | 行（含首尾） | tok | 详情 | 摘要（节首句摘取，**非**人工撰写） |
 |---|---|---|---|---|
@@ -217,13 +217,13 @@
 | §WXG-T-218：珠面烘焙 §13 v0.6 四裁定收口（Qoder 主理人会话 · 逐层清点后逐项拍板） | 17–47 | 1,581 | — | 用户诉求（原话要点）：「先把现役珠子每颗实际绘制几层、用几次半透明混合数清楚……再按层判断哪些适合烘焙」。 |
 | §WXG-T-219：beads 预烘位图皮肤资产换轨（Qoder 主理人会话 · 用户提案 → 三裁定 → 五文换轨 → 二批 DEC-6 收口 → 三批图例/B14，零代码） | 48–72 | 3,014 | — | 用户提案与原话：「我想做 studio 导入时候直接烘焙当前品牌使用到的颜色的珠子和底色槽的纹理，直接存储到游戏目录，是 |
 
-### `memory/2026-09-22.md` — 1,263 tok｜1 节｜**蒸馏已到期（2026-10-22，已过期 24 天）**
+### `memory/2026-09-22.md` — 1,263 tok｜1 节｜**蒸馏已到期（2026-10-22，已过期 25 天）**
 
 | 节 | 行（含首尾） | tok | 详情 | 摘要（节首句摘取，**非**人工撰写） |
 |---|---|---|---|---|
 | §WXG-T-186：beads 组珠消费序改「沿组连通的剥皮序」（Qoder 主理人会话 · 用户四项裁定） | 3–15 | 1,222 | — | 为什么改（用户裁定 2026-09-22，推翻 v2.4 / WXG-T-183 的几何口径）：「距离近者优先」保留，但 |
 
-### `memory/2026-09-17.md` — 6,817 tok｜12 节｜**蒸馏已到期（2026-10-17，已过期 29 天）**
+### `memory/2026-09-17.md` — 6,817 tok｜12 节｜**蒸馏已到期（2026-10-17，已过期 30 天）**
 
 | 节 | 行（含首尾） | tok | 详情 | 摘要（节首句摘取，**非**人工撰写） |
 |---|---|---|---|---|
@@ -240,7 +240,7 @@
 | §「开始任务」= 渲染层实现单核验（2026-09-17 晚） | 83–88 | 361 | — | 上会话承诺的「B′ 渲染层实现单」经查已由并发会话 WXG-T-143 完成落码：tuning.ts（BEAD_DRAW |
 | §WXG-T-150：G2′ `vfx_solver_restore` 落码（T-128 落码③·裁定「甲」两则）（Qoder 主理人会话 · 晚） | 89–98 | 945 | — | 相 A 是玩法提交时刻，不是观感时长：用户拍板「归位延后到 200ms 后」⇒ SOLVER_HINT_MS 决定 be |
 
-### `memory/2026-09-16.md` — 4,236 tok｜7 节｜1 节已外移｜**蒸馏已到期（2026-10-16，已过期 30 天）**
+### `memory/2026-09-16.md` — 4,236 tok｜7 节｜1 节已外移｜**蒸馏已到期（2026-10-16，已过期 31 天）**
 
 | 节 | 行（含首尾） | tok | 详情 | 摘要（节首句摘取，**非**人工撰写） |
 |---|---|---|---|---|
@@ -252,7 +252,7 @@
 | §WXG-T-126：ux-spec §3/§5/§7 HUD 条款对齐 v1.3 落码事实（F7①②⑤/F6） | 57–63 | 289 | — | 起因：T-124 遗留项收口。施工前先核查 ux-spec.md mtime（隔夜无改动）＝并发热写已停，安全窗口。 |
 | §grill-me：beads 设计拷问会话（WorkBuddy，进行中） | 64–72 | 613 | — | 背景：用户以 grill-me 技能 review beads 设计（v1.22「错位归位」反转后）并征集大胆想法。核心 |
 
-### `memory/2026-09-15.md` — 3,449 tok｜12 节｜6 节已外移｜**蒸馏已到期（2026-10-15，已过期 31 天）**
+### `memory/2026-09-15.md` — 3,449 tok｜12 节｜6 节已外移｜**蒸馏已到期（2026-10-15，已过期 32 天）**
 
 | 节 | 行（含首尾） | tok | 详情 | 摘要（节首句摘取，**非**人工撰写） |
 |---|---|---|---|---|
@@ -269,7 +269,7 @@
 | §WXG-T-111：knowledge 沉淀库按标签分片落地（波次4 第八轮 · 用户裁定「乙：本轮就地做」） | 58–67 | 594 | — | 「摘要 + 指针」写法同 §WXG-T-097（BD-10）；细节正本 = production/TASKS-DETAI |
 | §WXG-T-112：装置自指类门禁缺陷评估（波次4 第九轮 · BD-38 关单） | 68–70 | 44 | → `memory/details/2026-09-15-s12-t112.md`（1,299）｜行 1–44 | 结论：BD-38 与 ctx/BUDGET.md / ctx/hot-files.md 是同一根因——ctx:build |
 
-### `memory/2026-09-14.md` — 6,911 tok｜23 节｜7 节已外移｜**蒸馏已到期（2026-10-14，已过期 32 天）**
+### `memory/2026-09-14.md` — 6,911 tok｜23 节｜7 节已外移｜**蒸馏已到期（2026-10-14，已过期 33 天）**
 
 | 节 | 行（含首尾） | tok | 详情 | 摘要（节首句摘取，**非**人工撰写） |
 |---|---|---|---|---|
@@ -297,7 +297,7 @@
 | §台账 backlog 卫生门 + 行数哨（WXG-T-076） | 214–224 | 304 | — | 用户问「分级读取后还需要 archive 吗」⇒ 按段量化回答：头注 485 有界 / 主表 526（行数无门）/ |
 | §beads 工程接入 Cocos MCP（WXG-T-079） | 225–233 | 194 | — | 用户要求给 beads 装 Cocos MCP ⇒ 核查发现链路早已就位（编辑器/扩展/IDE 配置/工程）， |
 
-### `memory/2026-09-13.md` — 6,645 tok｜16 节｜**蒸馏已到期（2026-10-13，已过期 33 天）**
+### `memory/2026-09-13.md` — 6,645 tok｜16 节｜**蒸馏已到期（2026-10-13，已过期 34 天）**
 
 | 节 | 行（含首尾） | tok | 详情 | 摘要（节首句摘取，**非**人工撰写） |
 |---|---|---|---|---|
@@ -318,7 +318,7 @@
 | §G2 确诊：场景节点位置双重偏移（22:35，主理会话） | 132–139 | 410 | — | "砖墙在左下角"根因不是渲染器 y 翻转：playwright-cli 截图 + 预览页 eval 场景树实证——Can |
 | §G2 验收通过 + G4 输入链路三连修（22:30-23:05，主理会话） | 140–150 | 784 | — | G2 关闭：用户编辑器把 GameRoot Position 改 (0,0,0) 后，playwright 截图+场景树 |
 
-### `memory/2026-09-12.md` — 3,132 tok｜13 节｜4 节已外移｜**蒸馏已到期（2026-10-12，已过期 34 天）**
+### `memory/2026-09-12.md` — 3,132 tok｜13 节｜4 节已外移｜**蒸馏已到期（2026-10-12，已过期 35 天）**
 
 | 节 | 行（含首尾） | tok | 详情 | 摘要（节首句摘取，**非**人工撰写） |
 |---|---|---|---|---|
@@ -336,7 +336,7 @@
 | §WXG-T-030 完成与裁决（23:50） | 73–75 | 44 | → `memory/details/2026-09-12-s12-t030.md`（818）｜行 1–18 | 工程侧（engineering-lead-3）完成 S9 暂停面板 + 音乐/音效。独立验证：beads 40/40（6 |
 | §WXG-T-030 提交与 T-031 真源对齐（23:56） | 76–85 | 302 | — | 提交 62ad9c5（第一笔·工程侧，已 push develop）：8 文件 +1195。pre-commit che |
 
-### `memory/2026-09-11.md` — 5,617 tok｜11 节｜**蒸馏已到期（2026-10-11，已过期 35 天）**
+### `memory/2026-09-11.md` — 5,617 tok｜11 节｜**蒸馏已到期（2026-10-11，已过期 36 天）**
 
 | 节 | 行（含首尾） | tok | 详情 | 摘要（节首句摘取，**非**人工撰写） |
 |---|---|---|---|---|

diff --git a/docs/architecture/ui-architecture-beads.md b/docs/architecture/ui-architecture-beads.md
@@ -360,6 +360,8 @@ games/beads/src/ui/
 
 **视觉变更登记（2026-11-15 · WXG-T-953 · 橱窗装裱层）**：用户 2026-11-15 选「豆面拼接 + 陈列装饰」后令「按这个方案生成装裱层的视觉规格」并选「1 = 落码」。新增纯程序化装裱层四件——**M1 背衬暗角**（四边 10/6/2 三档内缩带，α 3%/4%/5%，r8）、**M2 底缘接触影**（`avail × 0.92` 宽、上压 2 / 下落 12、三档 14%/8%/3%，r6）、**M3 压边内框**（外扩 8，外线 1px `panelBorder` r6 + 内线 1px `panel` r5）、**M4 上缘受光线**（1px `plaqueBevel`）；M5 玻璃斜光默认关、不实装。落码 = `config/tuning/menu.ts::MENU_MOUNT` + `view/meta-menu.ts::drawContactShadow`（clip 内、随 `dx`）与 `drawShowcaseMount`（`unclip()` 后 M1→M3→M4）；锁 / 置灰 / 空槽只画 M3/M4。**几何口径订正**：名义 `MENU_V2.art` 325×314 **不是可见范围**（位图腿内容 `182/180 × avail ≈ 378`、程序化腿 `area = avail = 374`）⇒ M1/M2/M3 改锚**实际绘制包围盒**（`avail` 见方、底 = art 底），M3 上缘夹到玻璃顶（否则外扩 8 压到烘好的窗框）；按名义框画会把暗角 / 压边落进珠面 26–60px。**零新增 hex / 零位图 / 零 KB**（`shadowInk` / `panelBorder` / `panel` / `plaqueBevel` 四枚在册）。**金样本影响**：菜单族五态（`main-menu` / `level-select` / `level-select-mid` / `settings` / `signin`）各 **+18 rect**（1117→1135 / 4780→4798 / 4780→4798 / 1170→1188 / 1149→1167），其余六态逐字未变；由 `tests/ui-golden-capture.ts` 在 `2677fcb9` 锚重抓（两遍确定性自证 PASS，⛔ 不手改夹具，K-051 / K-053）。规格正本 = `games/beads/design/art/specs/menu-showcase-mount-spec.md`；实帧 = `temp/mount-shots/menu-{locked,pushing,cleared,fullstar}.png`（四态）。
 
+**视觉变更登记（2026-11-16 · WXG-T-954 · 走马灯 boss 烘焙图补描边）**：关闭 T-926 登记的例外 —— 两张 `ui_arc_*` 烘焙图（`l9-boss-mandala-256` / `photo32-smoke-boss-256`）沿 alpha 剪影最外圈补 **1px `shadowInk #3D2E1E`** 实线；P 模式保留、透明度索引 96 与 alpha 包围盒逐像素不变（Cocos trim 37/31/182/180 继续有效），design + cocos 两副本同 md5，文件反降 256 / 280 B。线宽依据：源图珠距 6.0 / 5.56 ⇒ 名义 0.75 / 0.70px，取 256 栅格最小 1px（菜单显示 ≈2.08px，与程序化缩略 1.56px 同量级）。**金样本零重抓**（Node 金样本不加载位图，走马灯走程序化兜底腿，命令流未变）。实帧 `temp/mount-shots/menu-cleared.png` / `menu-smoke-cleared.png`。
+
 **关键路径**：UI-00 → UI-01 → UI-10…14 → UI-20 → UI-22 / UI-25 → UI-30 → UI-31 → UI-41 → UI-42 → UI-50 → UI-53。UI-02（金样本）与 P1 可并行，但必须在 UI-30 前完成。
 
 > **[WXG-T-473] 金样本复评登记（2026-10-28）**：`copy-tokens.ts::version_label` 发布文案变更（`v1.x · 演示版` → `v1.0.0 · 演示版`，T-469 USER 版本号裁定「首发 1.0.x、x = build 号」）⇒ Meta 四屏（main-menu / level-select-mid / settings / signin）底部版本行文本变 ⇒ 整帧 sha 漂移（total / 种类数零变，纯文本内容）。复取器两遍确定性自证 PASS，夹具 `capturedFrom` = `2fbe8e4d`；对拍 **13/13 绿**。复取说明：工作树 src 面与 HEAD 零差异（dirty 仅 docs 台账两件），主树复取等价干净检出（K-167 精神，注记披露）。

diff --git a/ctx/BUDGET.md b/ctx/BUDGET.md
@@ -22,13 +22,13 @@
 
 | # | 文件 | tokens | 行数 | tier |
 |---:|---|---:|---:|:--:|
-| 1 | `production/TASKS-DETAIL.md` | 308877 | 10106 | normal |
+| 1 | `production/TASKS-DETAIL.md` | 309485 | 10119 | normal |
 | 2 | `games/beads/design/gdd/powerups-v2.md` | 154839 | 2359 | normal |
 | 3 | `games/beads/design/art/specs/assets-spec.md` | 122335 | 2122 | normal |
 | 4 | `production/qa/beads/g4-regression-report.md` | 86807 | 2201 | normal |
-| 5 | `production/TASKS.md` | 77705 | 276 | hot |
+| 5 | `production/TASKS.md` | 78003 | 277 | hot |
 | 6 | `games/beads/design/gdd/systems-index-changelog.md` | 53260 | 109 | normal |
-| 7 | `docs/architecture/ui-architecture-beads.md` | 47159 | 369 | normal |
+| 7 | `docs/architecture/ui-architecture-beads.md` | 47394 | 371 | normal |
 | 8 | `docs/architecture/adr/ADR-0030-beads-cocos-production-blit-carrier.md` | 45150 | 1307 | normal |
 | 9 | `games/beads/design/proposals/bead-visual-style-spec.md` | 43650 | 1206 | normal |
 | 10 | `games/beads/design/gdd/systems-index.md` | 42824 | 323 | hot |
@@ -49,12 +49,12 @@
 
 | 文件 | tokens | 类别 · 上限 | 处置 |
 |---|---:|---:|:--:|
-| `production/TASKS-DETAIL.md` | 308877 | tasksDetail · 205000 | 见 `ctx/budget-exempt.json`（无豁免则 ❌ 需报告主理人） |
+| `production/TASKS-DETAIL.md` | 309485 | tasksDetail · 205000 | 见 `ctx/budget-exempt.json`（无豁免则 ❌ 需报告主理人） |
 | `games/beads/design/gdd/powerups-v2.md` | 154839 | spec · 8000 | 见 `ctx/budget-exempt.json`（无豁免则 ❌ 需报告主理人） |
 | `games/beads/design/art/specs/assets-spec.md` | 122335 | spec · 8000 | 见 `ctx/budget-exempt.json`（无豁免则 ❌ 需报告主理人） |
 | `production/qa/beads/g4-regression-report.md` | 86807 | ledger · 16000 | 见 `ctx/budget-exempt.json`（无豁免则 ❌ 需报告主理人） |
 | `games/beads/design/gdd/systems-index-changelog.md` | 53260 | spec · 8000 | 见 `ctx/budget-exempt.json`（无豁免则 ❌ 需报告主理人） |
-| `docs/architecture/ui-architecture-beads.md` | 47159 | spec · 8000 | 见 `ctx/budget-exempt.json`（无豁免则 ❌ 需报告主理人） |
+| `docs/architecture/ui-architecture-beads.md` | 47394 | spec · 8000 | 见 `ctx/budget-exempt.json`（无豁免则 ❌ 需报告主理人） |
 | `docs/architecture/adr/ADR-0030-beads-cocos-production-blit-carrier.md` | 45150 | spec · 8000 | 见 `ctx/budget-exempt.json`（无豁免则 ❌ 需报告主理人） |
 | `games/beads/design/proposals/bead-visual-style-spec.md` | 43650 | spec · 8000 | 见 `ctx/budget-exempt.json`（无豁免则 ❌ 需报告主理人） |
 | `games/beads/design/gdd/systems-index.md` | 42824 | spec · 8000 | 见 `ctx/budget-exempt.json`（无豁免则 ❌ 需报告主理人） |

diff --git a/ctx/hot-files.md b/ctx/hot-files.md
@@ -25,9 +25,9 @@
 
 §wechatgame 项目长期笔记=1+83 · §日志蒸馏规程（R2 · WXG-T-0…=7+6 · §项目约定=13+22 · §常用脚本=35+11 · §SubAgent=46+4 · §Rules=50+3 · §Hooks=53+7 · §Headless / CI=60+8 · §已知限制=68+16
 
-## `production/TASKS.md` — 276 行 / 77705 tok / 实测读 4 次
+## `production/TASKS.md` — 277 行 / 78003 tok / 实测读 4 次
 
-§WXG 任务台账（SSOT）=1+277 · §待排（backlog，无号，立项时领取…=247+31
+§WXG 任务台账（SSOT）=1+278 · §待排（backlog，无号，立项时领取…=248+31
 
 ## `production/qa/beads/test-cases.md` — 67 行 / 3997 tok / 实测读 15 次
 
@@ -117,10 +117,10 @@
 
 §UX 规格变更记录与版本链（CHANG…=1+96 · §版本链（头注外移 · 逐字）=7+4 · §变更记录（文末外移 · 逐字）=11+86
 
-## `production/TASKS-DETAIL.md` — 10106 行 / 308877 tok
+## `production/TASKS-DETAIL.md` — 10119 行 / 309485 tok
 
-§WXG 任务台账 · 详情（标题制正文…=1+10107 · §WXG-T-953=9803+15 · §WXG-T-952=9818+11 · §WXG-T-951=9829+11 · §WXG-T-950=9840+10 · §WXG-T-949=9850+12 · §WXG-T-948=9862+12 · §WXG-T-947=9874+13 · §WXG-T-946=9887+13 · §WXG-T-945=9900+14 · §WXG-T-944=9914+13 · §WXG-T-943=9927+12 · §WXG-T-942=9939+13
-> 本表只列 13 / 1091 节：其余 1078 节 → ctx/index.json（按 path 取 `sections[].anchor` / `startLine`，勿整读）。
+§WXG 任务台账 · 详情（标题制正文…=1+10120 · §WXG-T-954=9803+13 · §WXG-T-953=9816+15 · §WXG-T-952=9831+11 · §WXG-T-951=9842+11 · §WXG-T-950=9853+10 · §WXG-T-949=9863+12 · §WXG-T-948=9875+12 · §WXG-T-947=9887+13 · §WXG-T-946=9900+13 · §WXG-T-945=9913+14 · §WXG-T-944=9927+13 · §WXG-T-943=9940+12
+> 本表只列 13 / 1092 节：其余 1079 节 → ctx/index.json（按 path 取 `sections[].anchor` / `startLine`，勿整读）。
 
 ## `games/breakout/design/concept.md` — 143 行 / 3113 tok / 实测读 217 次
 

diff --git a/games/beads/design/art/specs/menu-showcase-mount-spec.md b/games/beads/design/art/specs/menu-showcase-mount-spec.md
@@ -236,6 +236,7 @@ L3 木牌字 / ◀▶ / 顶栏 / CTA
 |---|---|
 | [`menu-layout-implementation-spec.md §12`](menu-layout-implementation-spec.md) | **几何上位真源**（v2 生产档 `MENU_V2`） |
 | [`menu-showcase-asset-spec.md §3`](menu-showcase-asset-spec.md) | 其 **C1 橱窗框 620×760 / C2 射灯 / C3 底座 / E1 boss 画框 420×420** 均为 v1 口径，已被 v2 背板烘焙取代 ⇒ 本规格**不引用**其尺寸；该件的退场对账另立单 |
+| 走马灯 boss 烘焙图 | `l9-boss-mandala-256` / `photo32-smoke-boss-256` 已带 **1px `shadowInk` 剪影描边**（`[WXG-T-954]`，P 模式、alpha 包围盒不变）⇒ 与详情 / 选关的剪影带同口径 |
 | [`menu-wall-signage-spec.md`](menu-wall-signage-spec.md) | 缩略「只画盘面」口径（`[WXG-T-502]`）；本规格不触碰珠面 recipe |
 | `meta-menu.ts::drawShowcaseArt` / `drawContactShadow` | M2 装配点：clip 内、随 `dx`；宽度 = `avail × 0.92`，锁 / 置灰 / 空槽跳过 |
 | `meta-menu.ts::drawShowcaseMount` | M1 → M3 → M4 固定上层（`unclip()` 之后）；包围盒 = 实际绘制区（§1），M3 上缘夹到玻璃顶 |
